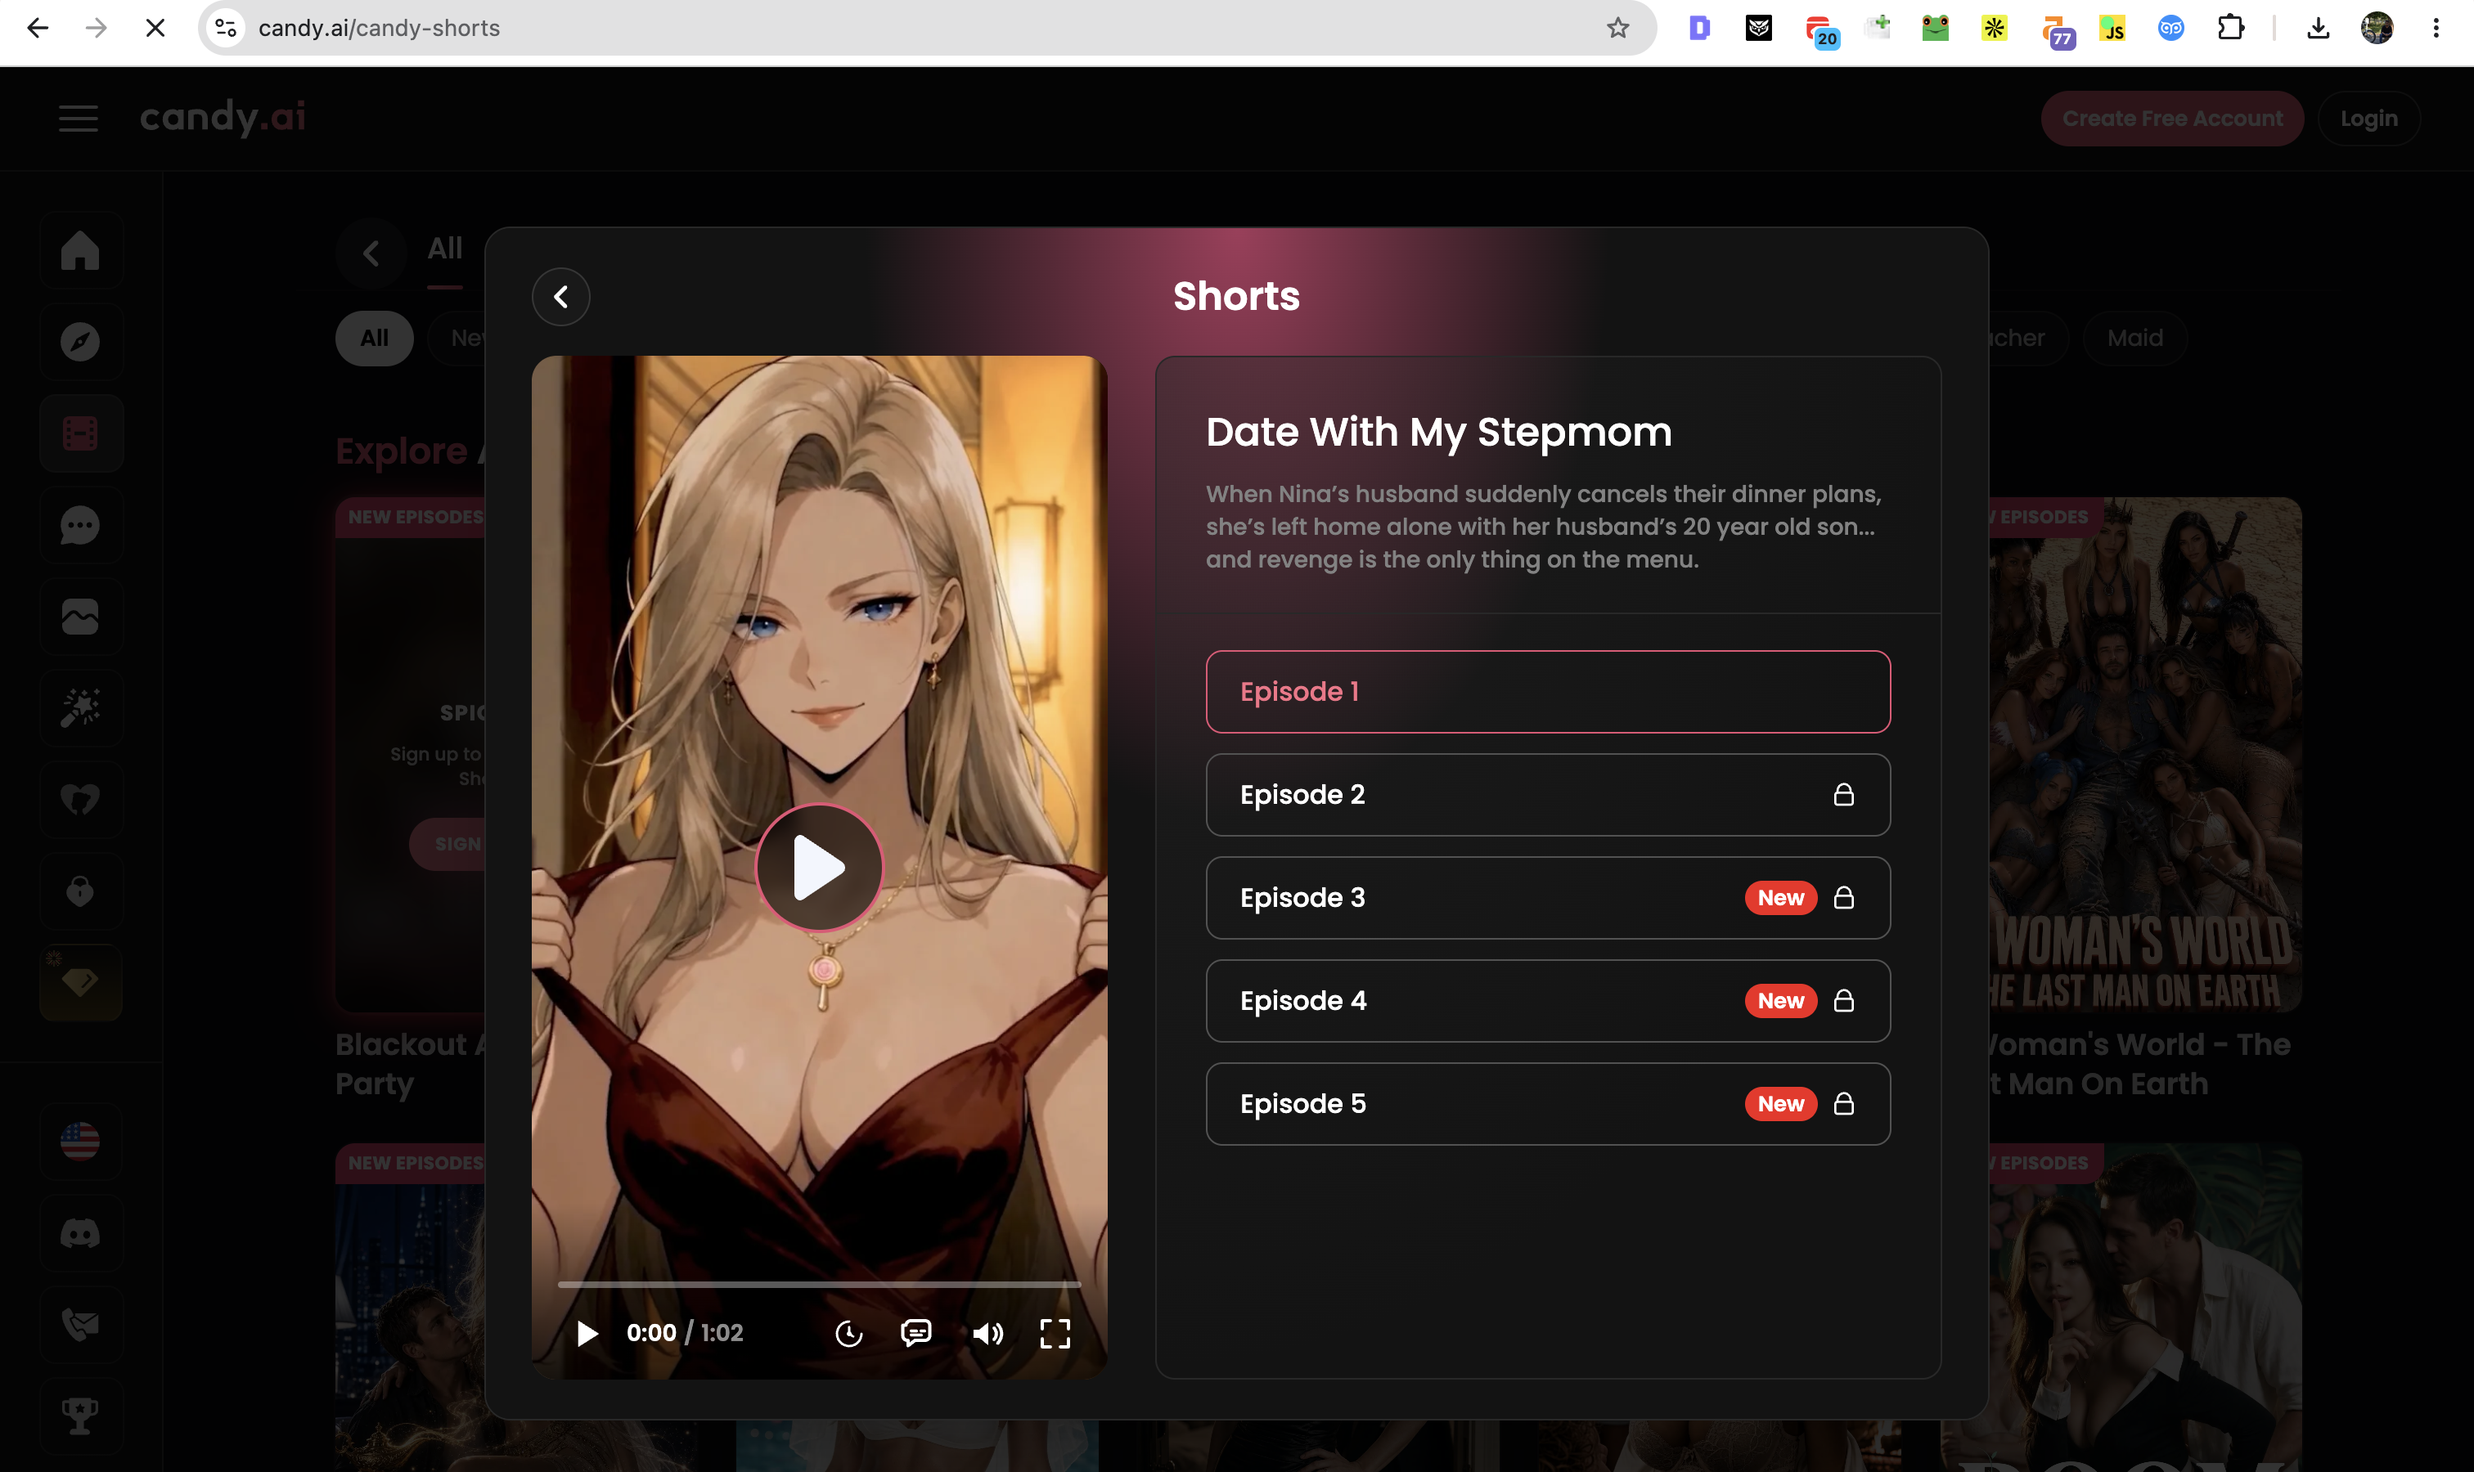
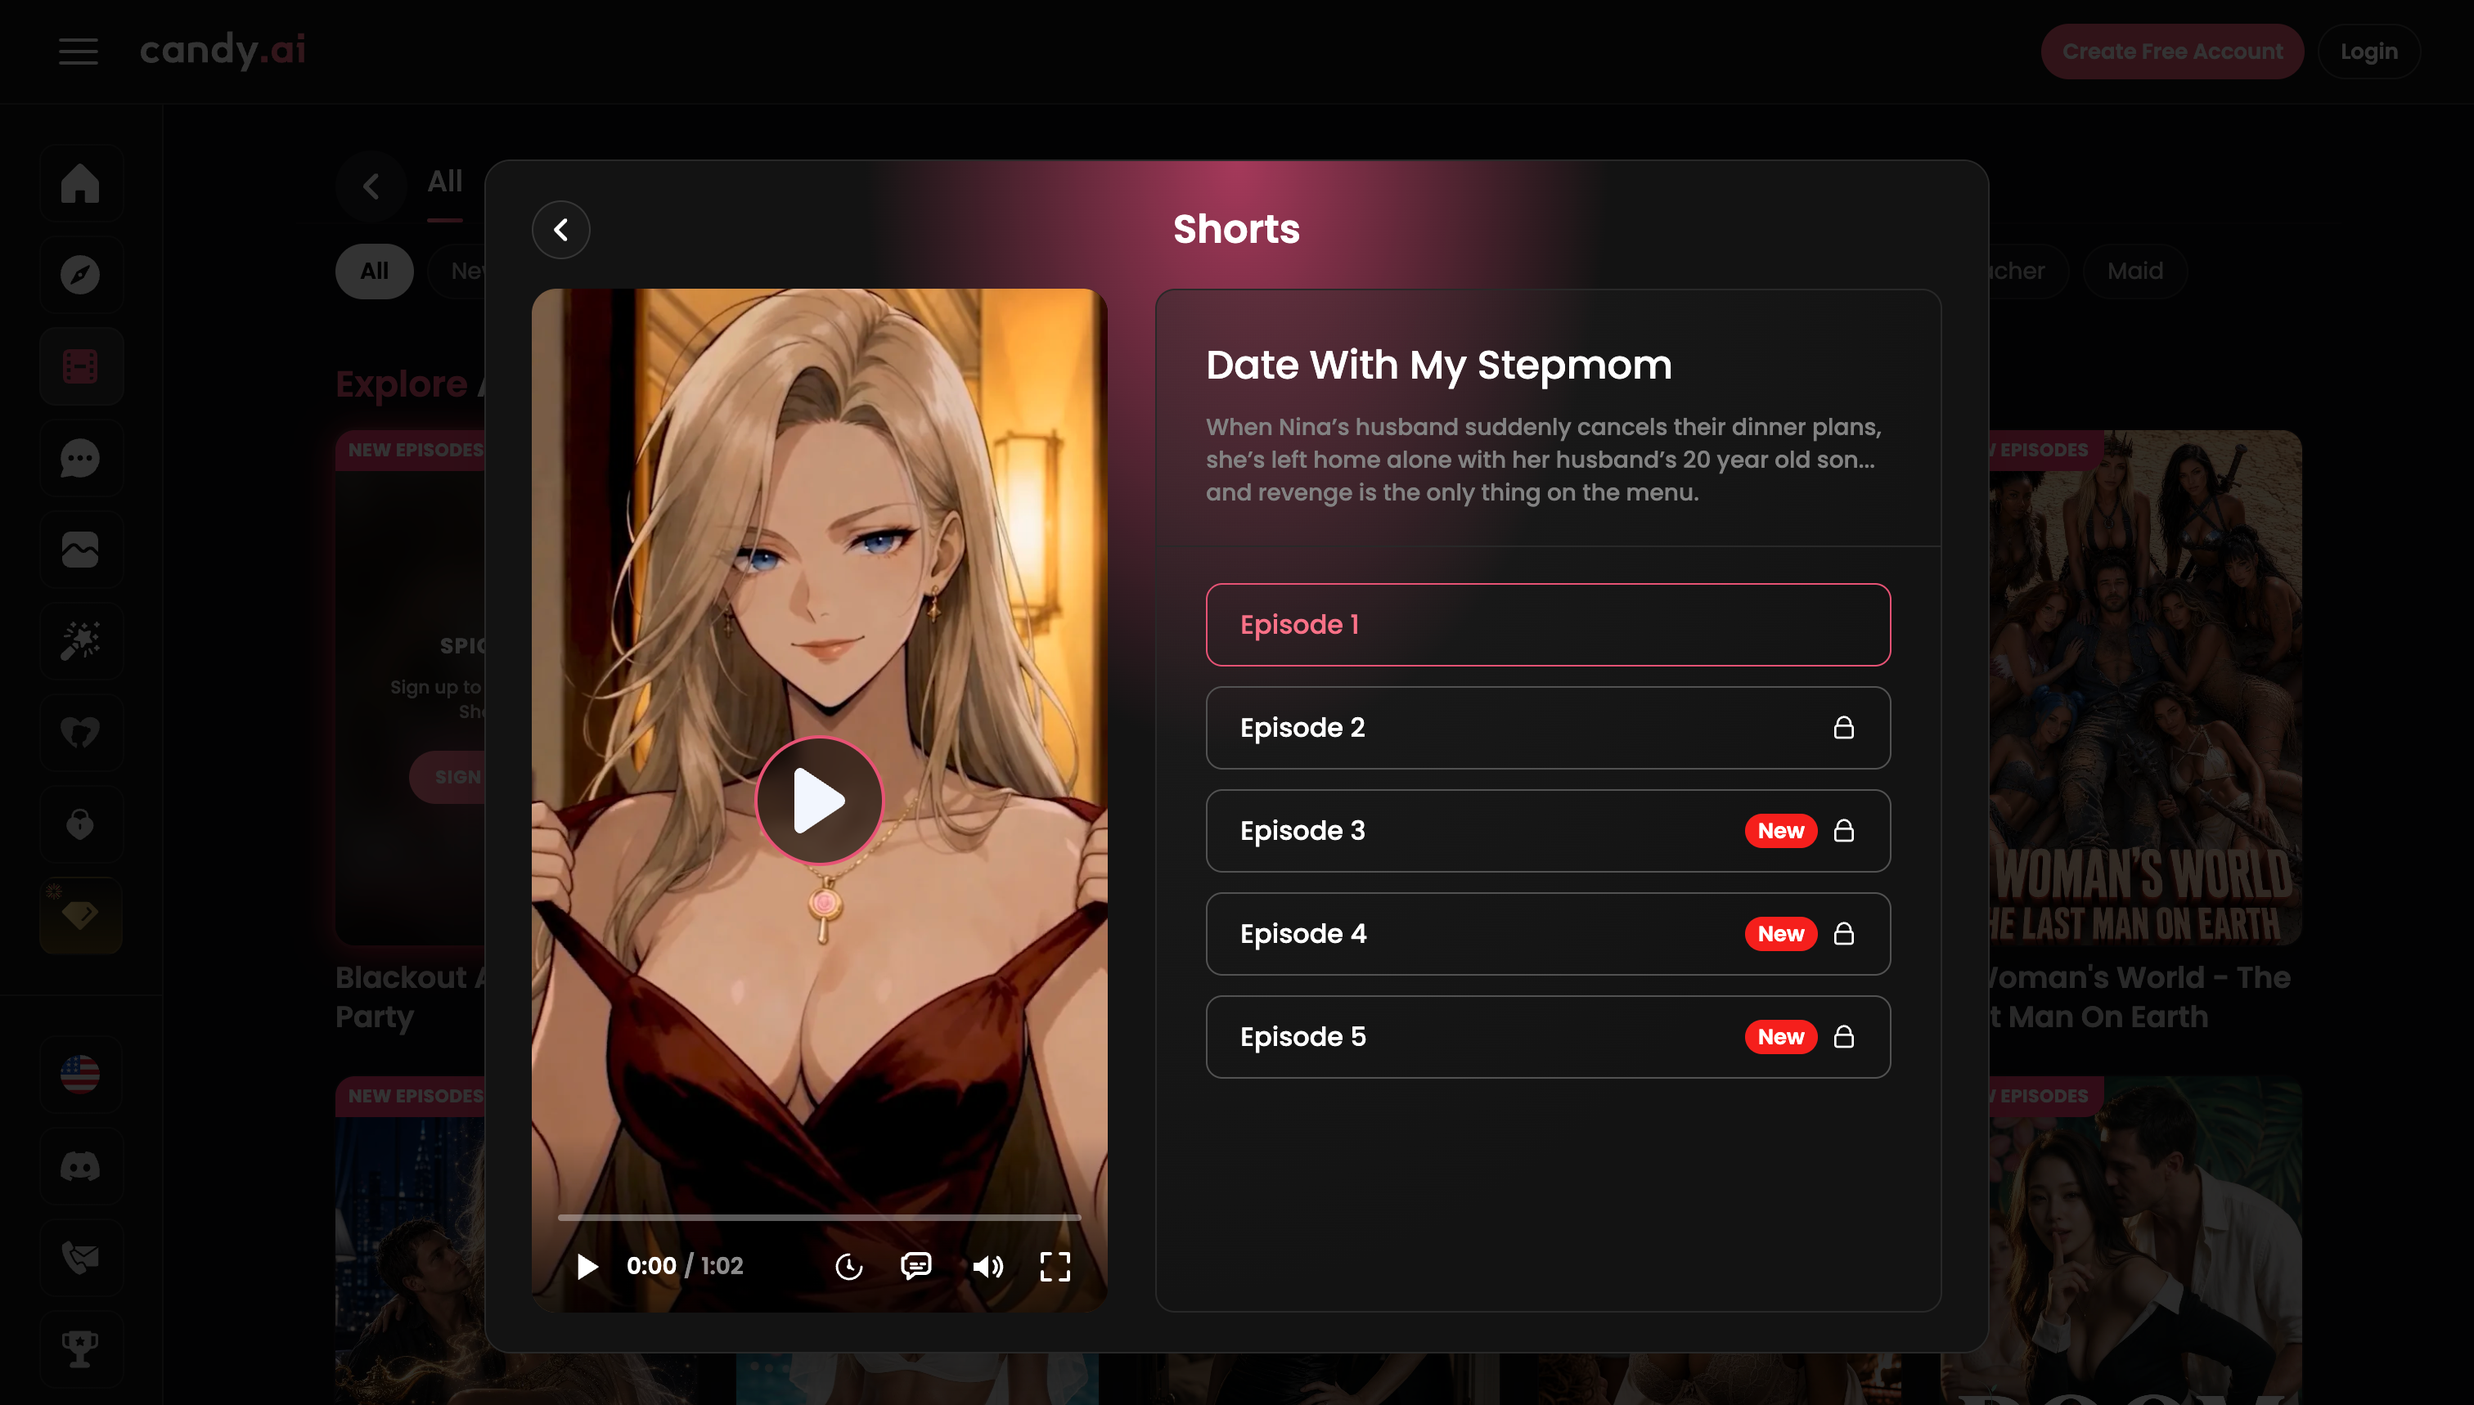
Match competitor typography tokens and crop Shorts screenshot
Align colors and Inter/Sora setup with aicandyreview.com, refresh
review cards with silhouette avatars, and remove Chrome chrome from
the Live Action / Shorts product image.

diff --git a/src/app/globals.css b/src/app/globals.css
@@ -1,18 +1,19 @@
 @import "tailwindcss";
 
+/* Matched to aicandyreview.com tokens + candy.ai pink */
 :root {
-  --bg: #0b0b0f;
+  --bg: #101012;
   --bg-elevated: #121218;
-  --bg-card: #16161d;
-  --bg-soft: #1c1c24;
+  --bg-card: #17171b;
+  --bg-soft: #202027;
   --ink: #ffffff;
-  --text: #e8e8ed;
-  --muted: #b8b8c2;
-  --line: #2c2c36;
-  --pink: #ff4d8d;
-  --pink-hot: #ff2d78;
-  --pink-deep: #e11d6a;
-  --pink-glow: rgba(255, 45, 120, 0.35);
+  --text: #d9d9e2;
+  --muted: #a0a0b0;
+  --line: #2a2a32;
+  --pink: #f0506e;
+  --pink-hot: #f0506e;
+  --pink-deep: #d63f5b;
+  --pink-glow: rgba(240, 80, 110, 0.28);
   --score: #ffb020;
   --accent: var(--pink-hot);
   --accent-fg: #ffffff;
@@ -25,71 +26,66 @@
 
 html {
   color-scheme: dark;
+  -webkit-text-size-adjust: 100%;
 }
 
 body {
-  background:
-    radial-gradient(900px 420px at 50% -8%, rgba(255, 45, 120, 0.16), transparent 55%),
-    var(--bg);
-  color: var(--text);
-  font-family: var(--font-body), system-ui, -apple-system, sans-serif;
+  background: var(--bg);
+  color: var(--ink);
+  font-family: var(--font-body), system-ui, -apple-system, BlinkMacSystemFont, "Segoe UI", sans-serif;
   font-size: 17px;
   line-height: 1.7;
   -webkit-font-smoothing: antialiased;
+  -moz-osx-font-smoothing: grayscale;
+  text-rendering: optimizeLegibility;
 }
 
+.font-display,
 h1,
 h2,
-h3,
-.font-display {
+h3 {
   font-family: var(--font-display), system-ui, sans-serif;
   letter-spacing: -0.02em;
   color: var(--ink);
-  line-height: 1.25;
+  line-height: 1.2;
   font-weight: 700;
 }
 
 .prose-review p {
-  margin-bottom: 1.1rem;
-  line-height: 1.75;
+  margin-bottom: 16px;
+  line-height: 1.7;
   color: var(--text);
   font-size: 17px;
 }
 
 .prose-review h2 {
   margin-top: 2.75rem;
-  margin-bottom: 0.9rem;
-  font-size: 1.55rem;
+  margin-bottom: 18px;
+  font-size: 30px;
 }
 
 .prose-review h3 {
-  margin-top: 1.75rem;
-  margin-bottom: 0.65rem;
-  font-size: 1.2rem;
-}
-
-@media (min-width: 640px) {
-  .prose-review h2 {
-    font-size: 1.85rem;
-  }
+  margin-top: 30px;
+  margin-bottom: 12px;
+  font-size: 21px;
 }
 
 .pink-glow {
-  box-shadow: 0 0 0 1px rgba(255, 45, 120, 0.35), 0 0 28px var(--pink-glow);
+  box-shadow: 0 10px 28px var(--pink-glow);
 }
 
 .btn-pink {
-  background: linear-gradient(180deg, var(--pink) 0%, var(--pink-deep) 100%);
+  background: var(--pink);
   color: #fff;
-  box-shadow: 0 0 24px var(--pink-glow);
+  box-shadow: 0 10px 28px var(--pink-glow);
 }
 
 .btn-pink:hover {
-  filter: brightness(1.08);
+  background: var(--pink-deep);
 }
 
 .card-dark {
   background: var(--bg-card);
   border: 1px solid var(--line);
-  border-radius: 1rem;
+  border-radius: 16px;
 }

diff --git a/src/app/page.tsx b/src/app/page.tsx
@@ -367,21 +367,23 @@ export default function HomePage() {
           {userThemes.map((item) => (
             <blockquote key={item.handle} className="card-dark flex flex-col p-5">
               <div className="mb-3 flex items-center justify-between gap-2">
-                <div className="flex items-center gap-2">
+                <div className="flex items-center gap-2.5">
                   <span
-                    className="flex h-9 w-9 items-center justify-center rounded-full bg-gradient-to-br from-[var(--pink)] to-purple-600 text-xs font-bold text-white"
+                    className="flex h-10 w-10 shrink-0 items-center justify-center rounded-full bg-gradient-to-br from-[#f0506e] to-[#5b46e0]"
                     aria-hidden
                   >
-                    {item.handle.replace("@", "").slice(0, 1).toUpperCase()}
+                    <svg width="18" height="18" viewBox="0 0 24 24" fill="white" aria-hidden>
+                      <path d="M12 12c2.7 0 4.8-2.1 4.8-4.8S14.7 2.4 12 2.4 7.2 4.5 7.2 7.2 9.3 12 12 12zm0 2.4c-3.2 0-9.6 1.6-9.6 4.8v1.2h19.2v-1.2c0-3.2-6.4-4.8-9.6-4.8z" />
+                    </svg>
                   </span>
-                  <cite className="not-italic text-sm font-semibold text-white">{item.handle}</cite>
+                  <cite className="not-italic text-[15px] font-semibold text-white">{item.handle}</cite>
                 </div>
-                <span className="text-sm text-[var(--pink)]" aria-label={`${item.stars} out of 5 stars`}>
+                <span className="shrink-0 text-[13px] tracking-tight text-[var(--pink)]" aria-label={`${item.stars} out of 5 stars`}>
                   {"★".repeat(item.stars)}
-                  <span className="text-[var(--line)]">{"★".repeat(5 - item.stars)}</span>
+                  <span className="text-[#3a3a44]">{"★".repeat(5 - item.stars)}</span>
                 </span>
               </div>
-              <p className="text-[15px] leading-relaxed text-[var(--text)]">{item.quote}</p>
+              <p className="text-[15px] leading-[1.65] text-[var(--text)]">{item.quote}</p>
             </blockquote>
           ))}
         </div>

diff --git a/src/app/layout.tsx b/src/app/layout.tsx
@@ -36,8 +36,8 @@ export default function RootLayout({
   children: React.ReactNode;
 }>) {
   return (
-    <html lang="en">
-      <body className={`${display.variable} ${body.variable} antialiased`}>
+    <html lang="en" className={`${display.variable} ${body.variable}`}>
+      <body className={`${body.className} antialiased`}>
         <SiteHeader />
         <main>{children}</main>
         <SiteFooter />
